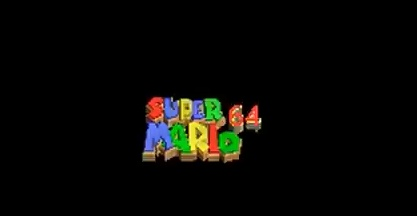
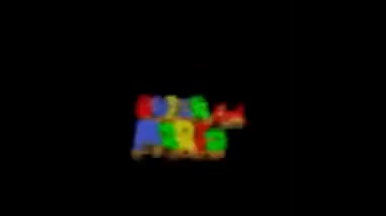
Added autostarter setting; Fixed final split not detecting;

Changed region(s): [[0.342, 0.4167, 0.6528, 0.75]]

diff --git a/as64gui/dialogs/settings_dialog.py b/as64gui/dialogs/settings_dialog.py
@@ -171,6 +171,9 @@ class GeneralMenu(BaseMenu):
 
         self.mode_lb = QtWidgets.QLabel("Operation Mode:")
         self.mode_combo = QtWidgets.QComboBox()
+        
+        self.autostart_lb = QtWidgets.QLabel("Autostart:")
+        self.autostart_cb = QtWidgets.QCheckBox()
 
         self.on_top_lb = QtWidgets.QLabel("Always On Top:")
         self.on_top_cb = QtWidgets.QCheckBox()
@@ -207,6 +210,10 @@ class GeneralMenu(BaseMenu):
         self.update_check_lb.setAlignment(QtCore.Qt.AlignmentFlag.AlignRight | QtCore.Qt.AlignmentFlag.AlignVCenter)
         self.update_check_lb.setMaximumWidth(130)
         self.update_check_cb.setMaximumWidth(20)
+        
+        self.autostart_lb.setAlignment(QtCore.Qt.AlignmentFlag.AlignRight | QtCore.Qt.AlignmentFlag.AlignVCenter)
+        self.autostart_cb.setMaximumWidth(130)
+        self.autostart_cb.setMaximumWidth(20)
 
         # Add Widgets
         self.menu_layout.addWidget(self.on_top_lb, 2, 0)
@@ -214,42 +221,45 @@ class GeneralMenu(BaseMenu):
 
         self.menu_layout.addWidget(self.update_check_lb, 3, 0)
         self.menu_layout.addWidget(self.update_check_cb, 3, 1)
+        
+        self.menu_layout.addWidget(self.autostart_lb, 4, 0)
+        self.menu_layout.addWidget(self.autostart_cb, 4, 1)
 
         self.menu_layout.addItem(
-            QtWidgets.QSpacerItem(10, 10, QtWidgets.QSizePolicy.Policy.Minimum, QtWidgets.QSizePolicy.Policy.Minimum), 3, 0)
+            QtWidgets.QSpacerItem(10, 10, QtWidgets.QSizePolicy.Policy.Minimum, QtWidgets.QSizePolicy.Policy.Minimum), 6, 0)
 
-        self.menu_layout.addWidget(HLine(), 4, 0, 1, 3)
-
-        self.menu_layout.addItem(
-            QtWidgets.QSpacerItem(10, 10, QtWidgets.QSizePolicy.Policy.Minimum, QtWidgets.QSizePolicy.Policy.Minimum), 5, 0)
-
-        self.menu_layout.addWidget(self.mode_lb, 6, 0)
-        self.menu_layout.addWidget(self.mode_combo, 6, 1)
+        self.menu_layout.addWidget(HLine(), 7, 0, 1, 3)
 
         self.menu_layout.addItem(
-            QtWidgets.QSpacerItem(10, 10, QtWidgets.QSizePolicy.Policy.Minimum, QtWidgets.QSizePolicy.Policy.Minimum), 7, 0)
+            QtWidgets.QSpacerItem(10, 10, QtWidgets.QSizePolicy.Policy.Minimum, QtWidgets.QSizePolicy.Policy.Minimum), 8, 0)
 
-        self.menu_layout.addWidget(HLine(), 8, 0, 1, 3)
-
-        self.menu_layout.addItem(
-            QtWidgets.QSpacerItem(10, 10, QtWidgets.QSizePolicy.Policy.Minimum, QtWidgets.QSizePolicy.Policy.Minimum), 9, 0)
-
-        self.menu_layout.addWidget(self.mid_run_lb, 10, 0)
-        self.menu_layout.addWidget(self.mid_run_cb, 10, 1)
+        self.menu_layout.addWidget(self.mode_lb, 9, 0)
+        self.menu_layout.addWidget(self.mode_combo, 9, 1)
 
         self.menu_layout.addItem(
-            QtWidgets.QSpacerItem(10, 10, QtWidgets.QSizePolicy.Policy.Minimum, QtWidgets.QSizePolicy.Policy.Minimum), 11, 0)
+            QtWidgets.QSpacerItem(10, 10, QtWidgets.QSizePolicy.Policy.Minimum, QtWidgets.QSizePolicy.Policy.Minimum), 10, 0)
 
-        self.menu_layout.addWidget(HLine(), 12, 0, 1, 3)
+        self.menu_layout.addWidget(HLine(), 11, 0, 1, 3)
 
         self.menu_layout.addItem(
-            QtWidgets.QSpacerItem(10, 10, QtWidgets.QSizePolicy.Policy.Minimum, QtWidgets.QSizePolicy.Policy.Minimum), 13, 0)
+            QtWidgets.QSpacerItem(10, 10, QtWidgets.QSizePolicy.Policy.Minimum, QtWidgets.QSizePolicy.Policy.Minimum), 12, 0)
 
-        self.menu_layout.addWidget(self.override_ver_lb, 14, 0)
-        self.menu_layout.addWidget(self.override_ver_cb, 14, 1)
+        self.menu_layout.addWidget(self.mid_run_lb, 13, 0)
+        self.menu_layout.addWidget(self.mid_run_cb, 13, 1)
+
         self.menu_layout.addItem(
-            QtWidgets.QSpacerItem(10, 5, QtWidgets.QSizePolicy.Policy.Expanding, QtWidgets.QSizePolicy.Policy.Minimum), 14, 2)
-        self.menu_layout.addWidget(self.override_ver_combo, 15, 1)
+            QtWidgets.QSpacerItem(10, 10, QtWidgets.QSizePolicy.Policy.Minimum, QtWidgets.QSizePolicy.Policy.Minimum), 14, 0)
+
+        self.menu_layout.addWidget(HLine(), 15, 0, 1, 3)
+
+        self.menu_layout.addItem(
+            QtWidgets.QSpacerItem(10, 10, QtWidgets.QSizePolicy.Policy.Minimum, QtWidgets.QSizePolicy.Policy.Minimum), 16, 0)
+
+        self.menu_layout.addWidget(self.override_ver_lb, 17, 0)
+        self.menu_layout.addWidget(self.override_ver_cb, 17, 1)
+        self.menu_layout.addItem(
+            QtWidgets.QSpacerItem(10, 5, QtWidgets.QSizePolicy.Policy.Expanding, QtWidgets.QSizePolicy.Policy.Minimum), 18, 2)
+        self.menu_layout.addWidget(self.override_ver_combo, 19, 1)
 
         self.menu_layout.addItem(QtWidgets.QSpacerItem(20, 20, QtWidgets.QSizePolicy.Policy.Minimum, QtWidgets.QSizePolicy.Policy.Expanding), 30, 0)
 
@@ -267,6 +277,7 @@ class GeneralMenu(BaseMenu):
         self.mid_run_cb.setChecked(config.get("general", "mid_run_start_enabled"))
         self.on_top_cb.setChecked(config.get("general", "on_top"))
         self.update_check_cb.setChecked(config.get("general", "update_check"))
+        self.autostart_cb.setChecked(config.get("general", "auto_start"))
 
         if config.get("game", "version") == "US":
             self.override_ver_combo.setCurrentIndex(1)
@@ -282,6 +293,7 @@ class GeneralMenu(BaseMenu):
         config.set_key("general", "operation_mode", self.mode_combo.currentIndex())
         config.set_key("general", "on_top", self.on_top_cb.isChecked())
         config.set_key("general", "update_check", self.update_check_cb.isChecked())
+        config.set_key("general", "auto_start", self.autostart_cb.isChecked())
 
 class ThresholdsMenu(BaseMenu):
     def __init__(self, parent=None):

diff --git a/as64gui/app.py b/as64gui/app.py
@@ -161,7 +161,7 @@ class App(QtWidgets.QMainWindow):
         self.star_count.split_star = split_star
 
     def autostart(self):
-        if config.get("general", "auto_start"):
+        if config.get("general", "auto_start") and self.start_btn.get_state() == "start":
             self.autostarter_active = True
             self.start_btn.set_state("init")
             
@@ -172,14 +172,14 @@ class App(QtWidgets.QMainWindow):
                     self.start.emit()
                     QtCore.QTimer.singleShot(2000, try_start)
             try_start()
-            # Quit the autostarter after trying for 10 seconds
+            # Quit the autostarter after trying for 5 minutes
             def quit_autostarter():
                 if self.autostarter_active:
                     self.autostarter_active = False
                     self.start_btn.set_state("start")
                     self.stop.emit()
                     self.display_error_message("Failed to auto start timer.", "AutoStart Error")
-            QtCore.QTimer.singleShot(60000, quit_autostarter)
+            QtCore.QTimer.singleShot(300000, quit_autostarter)
 
     def start_clicked(self):
         if self.start_btn.get_state() == "stop" or self.start_btn.get_state() == "init":
@@ -300,9 +300,9 @@ class App(QtWidgets.QMainWindow):
         context_menu.addSeparator()
         output_action = context_menu.addAction("Show Output")
         context_menu.addSeparator()
-        on_top_action = QtGui.QAction("Always On Top", self, checkable=True)
-        context_menu.addAction(on_top_action)
-        on_top_action.setChecked(config.get("general", "on_top"))
+        autostart_action = QtGui.QAction("Autostart", self, checkable=True)
+        context_menu.addAction(autostart_action)
+        autostart_action.setChecked(config.get("general", "auto_start"))
         context_menu.addSeparator()
         about_action = context_menu.addAction("About")
         context_menu.addSeparator()
@@ -331,11 +331,11 @@ class App(QtWidgets.QMainWindow):
             self.dialogs["reset_dialog"].show()
         elif action == output_action:
             self.dialogs["output_dialog"].show()
-        elif action == on_top_action:
-            checked = on_top_action.isChecked()
-            config.set_key("general", "on_top", checked)
+        elif action == autostart_action:
+            checked = autostart_action.isChecked()
+            config.set_key("general", "auto_start", checked)
             config.save_config()
-            self.set_always_on_top(config.get("general", "on_top"))
+            self.autostart()
         elif action == about_action:
             self.dialogs["about_dialog"].show()
         elif action == exit_action:

diff --git a/as64processes/final.py b/as64processes/final.py
@@ -55,8 +55,7 @@ class ProcessFinalStarSpawn(Process):
     def execute(self):
         if as64core.fade_status in (as64core.FADEOUT_PARTIAL, as64core.FADEOUT_COMPLETE):
             return self.signals["FADEOUT"]
-
-        if self._star_visible() and self.loop_time() > 30:
+        if self._star_visible() and self.loop_time() > 20:
             if self._looping_iteration == len(self._iteration_value):
                 print("Star Spawned")
                 return self.signals["SPAWNED"]

diff --git a/obs-plugin/src/autosplit64plus-framegrabber.c b/obs-plugin/src/autosplit64plus-framegrabber.c
@@ -331,7 +331,8 @@ static void filter_render(void *data, gs_effect_t *effect)
 static void filter_destroy(void *data)
 {
 	struct filter_data *filter = data;
-	if (filter) {
+	if (filter && filter->is_valid) {
+		filter_instance_exists = false;
 		if (filter->render)
 			gs_texrender_destroy(filter->render);
 		if (filter->staging)

diff --git a/README.md b/README.md
@@ -26,6 +26,10 @@ The project's main objectives are to simplify setup and enhance reliability.
 - **Streamlined Setup**
   - Automatic LiveSplit Server connection
   - No manual server starting needed
+- **Autostart Split Detection**
+  - Automatically start Split Detection when AS64+ is launched
+  - Tries to connect to LiveSplit and start Game Capture for 5 minutes
+  - Once setup, AS64+ can run entirely in the background
 - **Improved Recognition**
   - Enhanced star detection accuracy
   - Resilient to inaccurate capture region 
@@ -68,8 +72,6 @@ There are 2 options to capture the game:
 - **OBS Plugin** (*preffered*)
 - **Window Capture** 
 
-Make sure you have your capture software open (i.e., OBS, AmaRecTV), then open the Capture Editor (`Right-Click -> Edit Coordinates`):
-
 #### OBS Plugin
 
 The AutoSplit64+ Grabber OBS plugin sends the gameplay directly to AutoSplit64+ before any modifications are done to it. Changing size, adding effects, overlays, etc. are not captured do not influence the result. 
@@ -79,7 +81,17 @@ The AutoSplit64+ Grabber OBS plugin sends the gameplay directly to AutoSplit64+ 
 - Copy the plugin file `autosplit64plus-framegrabber.dll` located in `AutpSplit64plus/OBS-Plugin` to your OBS plugin folder
 - Usually located in `C:\Program Files\obs-studio\obs-plugins\64bit`
 - Open OBS
-![OBS Plugin](repo/capture_screen_obs.png)
+- Open the Filters Menu of your capture card source (`Right-Click -> Filters`)
+- Add (+) Effects Filter and choose `AS64+ Frame Grabber`
+![OBS Filter Menu](repo/obs_filters_screen.png)
+![OBS Plugin](repo/obs_plugin_screen.png)
+
+- If you have any other Filters applied, make sure `AS64+ Frame Grabber` is at the very top
+- Close Filters Menu
+##### Setup AutoSplit64+:
+- Open the Capture Editor in AutoSplit64+ (`Right-Click -> Edit Coordinates`):
+
+![OBS Plugin Capture](repo/capture_screen_obs.png)
 
 - Check `Use OBS Plugin`
 - Pressing `Capture Screen` will update the shown frame.
@@ -92,6 +104,9 @@ If the region was not detected poperly, adjust the region manually and ensure it
 
 #### Window Capture
 Window Capture will take a screenshot of the selected programm 30 times/second.
+
+- Make sure you have your capture software open (i.e.AmaRecTV)
+- Open the Capture Editor in AutoSplit64+ (`Right-Click -> Edit Coordinates`):
  
 ![Window Capture](repo/capture_screen_window.png)
 
@@ -144,8 +159,7 @@ If you encounter any issues, please run through all steps below.
 3. Run `build.bat` to create executable
 
 ## Support
-- For support on the new Plus Features: [Join our Discord](https://discord.gg/VmrQQBpPSK)
-- For support on base Features: [Join the AutoSplit64 Discord](https://discord.gg/Q4TrSqB)
+- For help join our [Discord](https://discord.gg/VmrQQBpPSK)
 
 ## Credits
 Developed with ❤ by [Davi Be](https://github.com/DaviBe92)
@@ -156,5 +170,4 @@ Gerardo Cervantes - [Star Classifier](https://github.com/gerardocervantes8/Star-
 
 #### TODO
 
-- Autostart detecting
 - RetroSpy integration for reset detection
